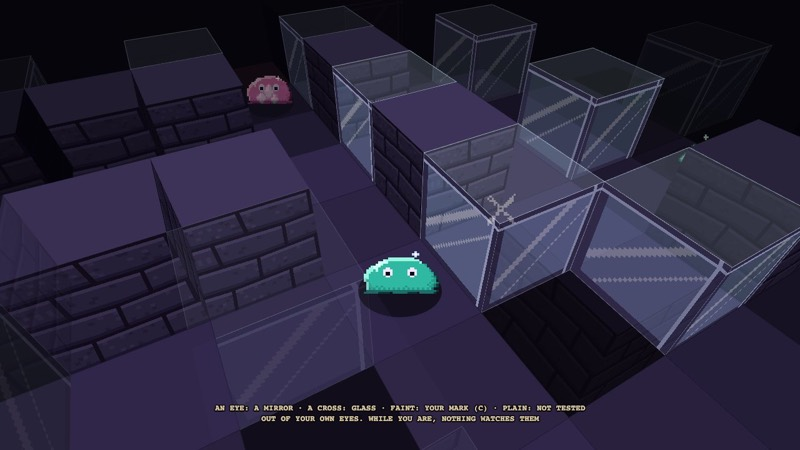
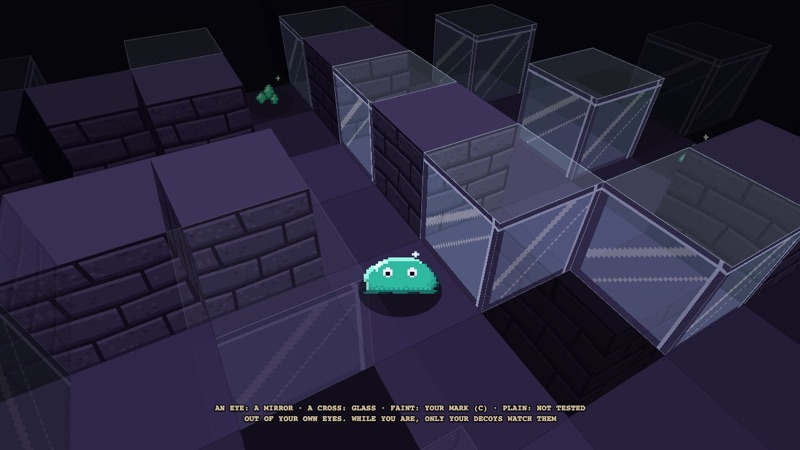
The Hall's guides say what the hall does: your decoys still hold them while you're blacked out or looking from above (and the hint over that view says so); a calm one won't be shooed; four pranks, one spinning you round; the dash goes up to three tiles; breaking glass riles the near ones half a mood

Changed region(s): [[0.3125, 0.9022, 0.6875, 0.9644], [0.3125, 0.1556, 0.375, 0.2489], [0.5938, 0.4356, 0.6562, 0.4978]]

diff --git a/guide/hall.html b/guide/hall.html
@@ -49,7 +49,7 @@ details[open] summary { margin-bottom: 12px; }
     <img src="hall/intro.jpg" alt="The first moment in the hall: a dark stone corridor, the title The Hall of Reflections, and a few lines on what to do. The shard lies on the floor ahead." width="800" height="450">
     <figcaption>The way in. Behind you is the broken mirror you came through. It's also the way out.</figcaption>
   </figure>
-  <p>You'll find the Hall on the Training Ground's <strong>Trials</strong> page. You see everything through your slime's eyes, one tile and one quarter turn at a time. The first time you go in, its own short guide opens by itself; <kbd>H</kbd> brings it back whenever you want, and the hall holds still while you read.</p>
+  <p>You'll find the Hall on the Training Ground's <strong>TRIAL</strong> page. You see everything through your slime's eyes, one tile and one quarter turn at a time. The first time you go in, its own short guide opens by itself; <kbd>H</kbd> brings it back whenever you want, and the hall holds still while you read.</p>
 
   <h2 id="goal">The goal</h2>
   <p>The hall is two rings of corridors around a <strong>gallery</strong>, a glass room in the middle with four panes standing free in it. Small closets open off the sides. Every one of its <strong>30 panes</strong> is either a <span class="gold">mirror</span> or <span class="gold">glass</span>, picked at random each run, and every pane is a window: you can see through it from both sides.</p>
@@ -131,10 +131,10 @@ details[open] summary { margin-bottom: 12px; }
     </svg></div>
     <figcaption>Chalked. The pink slime on the floor is a decoy lying in the hall: walk over it to pick it up.</figcaption>
   </figure>
-  <div class="note warn"><p><strong>Breaking glass is loud.</strong> Every sleeper within 7 tiles wakes. Every one already awake lunges two steps at you, whether you're watching it or not, and gets a whole mood worse.</p></div>
+  <div class="note warn"><p><strong>Breaking glass is loud.</strong> Every sleeper within 7 tiles wakes. Every one already awake lunges two steps at you, whether you're watching it or not, and gets a whole mood worse (half a mood more within 7 tiles).</p></div>
 
   <h2 id="them">Them</h2>
-  <p>There are four. They start <strong>asleep</strong>, looking a lot like you, eyes shut. One wakes if you come within <strong>2 tiles</strong> of it, or at a noise near it: a dash (6 tiles), a chalked pane (4 tiles), breaking glass (7 tiles). Every fragment you take also wakes the nearest one still asleep. Waking takes a moment (a second and a half before its first step), and you'll hear it: a giggle, from where it is.</p>
+  <p>There are four. They start <strong>asleep</strong>, looking a lot like you, eyes shut. One wakes if you come within <strong>2 tiles</strong> of it, or at a noise near it: a dash (6 tiles), a chalked pane (4 tiles), breaking glass (7 tiles). Every fragment you take also wakes the nearest one still asleep. Waking takes a moment (an extra second and a half before its first step), and you'll hear it: a giggle, from where it is.</p>
   <div class="note"><p><strong>They only move while nothing is looking at them.</strong> Your eyes, your raised shard and your decoys all count. Look away, even to turn a corner, and they come toward you, the shortest way, round each other.</p></div>
   <p>Every step one takes, it's in a new look, picked for how close it is. Three or more steps away, the look shows its <a href="#moods">mood</a>: calm, playful or hunting. Right behind a pane between you, it's usually up against the glass. Two steps away, it's in your face. One step away, you catch it frozen just before it got you. If you look away then, it reaches you.</p>
   <div class="grid">
@@ -158,7 +158,7 @@ details[open] summary { margin-bottom: 12px; }
   <ul>
     <li><strong>Staring.</strong> While you look straight at one, it gets worse three times as fast (calm to playful in 10 seconds, playful to hunting in 15).</li>
     <li><strong>A noise near it.</strong> A dash or a chalked pane nearby makes it half a mood worse.</li>
-    <li><strong>Breaking glass.</strong> Every one awake gets a whole mood worse, wherever it is.</li>
+    <li><strong>Breaking glass.</strong> Every one awake gets a whole mood worse, wherever it is, and half a mood more if it's within 7 tiles.</li>
     <li><strong>Fragments.</strong> Once you have one, every one awake is at least playful. With the way out whole, they're all hunting.</li>
   </ul>
   <p>Nothing calms one down except a <a href="#shoo">shoo</a> or a prank. Either sends it back to sleep far away, and it wakes calm again (or as riled as your fragments say).</p>
@@ -257,12 +257,12 @@ details[open] summary { margin-bottom: 12px; }
   <p>They can't hurt you. Your own fear can.</p>
   <h3>Dread: don't meet their eyes</h3>
   <p>Looking <strong>straight</strong> at one that's awake fills you with dread, faster the more of the screen it fills. The edges darken, the colour drains, cracks creep in, your heart pounds. Looking at one in your raised shard doesn't count: it's a reflection. Dread starts draining half a second after you look away.</p>
-  <p>The first time you see one in a new look, it makes you jump, and that's a burst of dread on top.</p>
+  <p>The first time you see one that's just come up close (two steps away or nearer), it makes you jump. If you saw it straight on, that's a burst of dread on top.</p>
   <div class="two">
     <figure><img src="hall/dread.jpg" alt="Staring at one: the screen gone grey and dark at the edges." width="800" height="450" loading="lazy"><figcaption>Dread building.</figcaption></figure>
     <figure><img src="hall/blackout.jpg" alt="A black screen with the words You black out. You can't bear it." width="800" height="450" loading="lazy"><figcaption>Full dread: you black out.</figcaption></figure>
   </div>
-  <p>When dread is full, you <strong>black out</strong> for a second. Nothing is watching them while you're out, so they move. You come round about half full of dread.</p>
+  <p>When dread is full, you <strong>black out</strong> for a second. Only your decoys still watch them while you're out, so the rest move. You come round about half full of dread.</p>
   <h3>Stress: what their pranks leave you with</h3>
   <p>A prank is a huge scare, then a giggle. It stays with you as <strong>stress</strong>, for good. Your dread counts toward stress too, while it lasts. When stress is full, you're <strong>scared to death</strong> and the run is over. </p>
   <p>They have four pranks, and never pull the same one on you twice in a row:</p>
@@ -347,7 +347,7 @@ details[open] summary { margin-bottom: 12px; }
   </figure>
 
   <h3>Looking from above</h3>
-  <p>Hold <kbd>Tab</kbd> to rise out of your own eyes: the view pulls back and up behind you, turned a little toward the middle of the hall. You see yourself, the stone and panes round you (with your chalk and marks), what's lying about, and your slimes, with the dark closing in a few tiles off. You never see them this way, except where a sentry pings. While you're out of your eyes, nothing is watching them.</p>
+  <p>Hold <kbd>Tab</kbd> to rise out of your own eyes: the view pulls back and up behind you, turned a little toward the middle of the hall. You see yourself, the stone and panes round you (with your chalk and marks), what's lying about, and your slimes, with the dark closing in a few tiles off. You never see them this way, except where a sentry pings. While you're out of your eyes, only your decoys watch them, and you can't move or use anything till you let go.</p>
   <figure>
     <div class="shot"><img src="hall/above.jpg" alt="The view from above and behind: your teal slime in a corridor between stone blocks and glass panes, a pink decoy further off, and a chalked cross on a pane; arrows point to each." width="800" height="450" loading="lazy">
     <svg class="ink" viewBox="0 0 640 360" aria-hidden="true">
@@ -382,23 +382,23 @@ details[open] summary { margin-bottom: 12px; }
     <li><strong>Shoo the playful ones.</strong> A calm one can't be shooed, but it's slow and easy to get away from. Once it turns playful, send it off before it starts hunting.</li>
     <li><strong>Leave sleepers alone.</strong> Don't walk within two tiles of one, and don't dash or chalk near one.</li>
     <li><strong>Plant a sentry by a sleeper</strong> you have to pass, so you'll know when it's up.</li>
-    <li><strong>Think before the third fragment.</strong> It wakes everything, all hunting. Know your way back to the mirror first, and grab the bonus fragments before it if you want them.</li>
+    <li><strong>Think before the third fragment.</strong> It wakes everything, all hunting. Know your way back to the mirror first. Whichever three fragments you find first make the way out, so the two bonus ones come after, with every one of them hunting.</li>
     <li><strong>Pace yourself after a prank.</strong> Two pranks in, a full dread kills you. Three in, even a jump can.</li>
   </ul>
 
   <h2 id="numbers">The numbers</h2>
   <div class="wrap"><table class="numbers">
     <tr><th>What</th><th>Value</th></tr>
-    <tr><td>Panes</td><td class="n">30, each 45% likely a mirror</td></tr>
+    <tr><td>Panes</td><td class="n">30, each 45% likely a mirror (always at least 8)</td></tr>
     <tr><td>Fragments</td><td class="n">5 in mirrors, 3 needed, +25 glorps each extra</td></tr>
     <tr><td>Them: a step, unwatched</td><td class="n">calm 0.9s, playful 0.6s, hunting 0.43s</td></tr>
     <tr><td>Them: each fragment taken</td><td class="n">0.03s quicker (never under 0.45s before mood)</td></tr>
     <tr><td>Them: can see you / lost you</td><td class="n">×0.8 / ×1.25 step time</td></tr>
     <tr><td>Them: first moves</td><td class="n">none in your first 5s</td></tr>
     <tr><td>Moods: calm to playful / playful to hunting</td><td class="n">30s / 45s awake (3× faster stared at)</td></tr>
-    <tr><td>Moods: a noise near / breaking glass</td><td class="n">+½ mood / +1 mood</td></tr>
+    <tr><td>Moods: a noise near / breaking glass</td><td class="n">+½ mood / +1 mood (+1½ within 7 tiles)</td></tr>
     <tr><td>Waking: too near / dash / chalk / glass</td><td class="n">2 / 6 / 4 / 7 tiles</td></tr>
-    <tr><td>Waking: coming to</td><td class="n">1.5s before the first step</td></tr>
+    <tr><td>Waking: coming to</td><td class="n">1.5s more before its first step</td></tr>
     <tr><td>Breaking glass: the awake lunge</td><td class="n">2 steps</td></tr>
     <tr><td>Sent off (a shoo or a prank)</td><td class="n">asleep 8+ tiles away for 15 to 25s</td></tr>
     <tr><td>Hearing them move</td><td class="n">up to 10 tiles</td></tr>
@@ -416,7 +416,7 @@ details[open] summary { margin-bottom: 12px; }
     <tr><td>Glorps</td><td class="n">11 piles of 3 to 6</td></tr>
     <tr><td>Its true face</td><td class="n">1 in 250 a step, 3+ steps away; 500 glorps</td></tr>
   </table></div>
-  <p class="foot">The step times are before the small random spread that keeps them out of step with each other (up to 15% either way).</p>
+  <p class="foot">The step times are before two things: ×0.8 when it can see you or ×1.25 when it has lost you, and a small spread, set by where each one stands, that keeps them out of step with each other (up to 15% either way).</p>
 </main>
 </body>
 </html>

diff --git a/MirrorTrial.js b/MirrorTrial.js
@@ -36,7 +36,7 @@
 // of them if it's in the way (not through stone or glass), loud. Found in the hall: decoy slimes (Q, you in pink: set one
 // down and it stares the way you face for a while; they take it for you, and anything in its line holds) and sentry
 // slimes (E sets one down: one of them moving within its reach, even a wall away, or one asleep by it waking, sets it off: it pings twice, each ping
-// showing you where they are for a moment, then it's spent). Your map (TAB, held up to your face: nothing watches them) is
+// showing you where they are for a moment, then it's spent). Your map (TAB, held up to your face: only your decoys watch them) is
 // the whole hall: its panes as you've chalked or marked them, your decoys and sentries, you; them only as a ping shows.
 // Drawn small and scaled up: a ray a column through the tile map, off mirrors and through glass, shaded to black with
 // distance and dithered to a few levels a colour; the shard's view the same, turned round and flipped, cut to its shape.
@@ -89,16 +89,16 @@ class MirrorTrial extends Phaser.Scene {
     // HOW THE HALL WORKS: the game's own guide (LevelSelectScene._guide), a picture from the hall a page (assets/mirror_guide).
     // By itself the first time you come in (mirror_guide_seen), and on H; the hall holds still while it's open
     static GUIDE = [
-        ['THE HALL OF REFLECTIONS', 'Five fragments of the way out are in mirrors, spread through the hall\'s 30 panes. Walk into a pane to chalk it: a mirror rings and gives up its fragment if it has one; glass shatters, and they all hear it. Three make the way out whole, and taking the third wakes every one of them for the run home. The other two are worth glorps. H shows this again.'],
+        ['THE HALL OF REFLECTIONS', 'Five fragments of the way out are in mirrors, spread through the hall\'s 30 panes. Walk into a pane to chalk it: a mirror rings and gives up its fragment if it has one; glass shatters, and they hear it. Three make the way out whole, and taking the third wakes every one of them for the run home. The other two are worth glorps. H shows this again.'],
         ['MIRROR OR GLASS?', 'Straight on, a mirror here looks just like glass: you see through both. Only a reflection of a reflection shows. Turn your back on a pane and hold up your shard (SPACE): a mirror shows you, holding the shard; glass shows what\'s beyond it. Your decoys and sentries are made of reflection, so a mirror shows them even straight on.'],
         ['CHALK AND MARKS', 'Chalk is the real test: an eye for a mirror, a cross for glass. C puts your own mark on a pane (glass, then mirror, then rubbed out) so you don\'t test it twice; with the shard up, it marks the pane behind you. Shattered glass wakes every sleeper near it, and the awake ones lunge two steps at you.'],
         ['THEM', 'They only move while nothing is watching them: your eyes, your raised shard, your decoys. Look away and they come. Asleep, one wakes if you come within two tiles of it, or at a noise: a dash, a chalked pane, breaking glass. Each fragment you take wakes another. Every step they take, they look different.'],
         ['THEIR MOODS', 'Every one wakes calm and slow (reading, juggling, whistling), and the longer it\'s awake the worse it gets: playful, then hunting and quick (staring, up the walls). You\'ll hear it turn. Staring at one, a noise near it and breaking glass rile it faster; a fragment taken lifts them all. Only a shoo or a prank calms one down. One that can see you comes quicker: lose it round a corner.'],
-        ['DON\'T MEET THEIR EYES', 'Looking straight at one that\'s awake fills you with dread. When it\'s full you black out for a second, and nothing is watching them. In your shard they can\'t do that to you. Hold one in your raised shard for two seconds and it slinks off to sleep it off somewhere far away, for a while.'],
-        ['THEY CAN\'T HURT YOU', 'One that reaches you pranks you, and it stays with you as stress. Your dread counts toward it too, while it lasts. Two pranks in, a full dread scares you to death. Three in, one moment\'s look does. A fourth prank always does.'],
+        ['DON\'T MEET THEIR EYES', 'Looking straight at one that\'s awake fills you with dread. When it\'s full you black out for a second, and only your decoys still watch them. In your shard they can\'t do that to you. Hold one that isn\'t calm in your raised shard for two seconds and it slinks off to sleep it off somewhere far away, for a while.'],
+        ['THEY CAN\'T HURT YOU', 'One that reaches you pranks you, and it stays with you as stress. They have four pranks, never the same one twice running; one spins you round to face the other way. Your dread counts toward your stress too, while it lasts. Two pranks in, a full dread scares you to death. Three in, one moment\'s look does. A fourth prank always does.'],
         ['YOUR SHARD', 'Held up, your arm tires: it gives out after four seconds, and rests slowly once it\'s down. The goo arm beside the shard shows what\'s left. Down, the shard fogs up now and then, and a fogged shard only holds the ones close behind you. Hold F to wipe it, but your arm can\'t rest while you do.'],
-        ['WHAT YOU\'LL FIND', 'Flasks of your goo: SHIFT dashes you three tiles on, past one of them, loudly. Decoys (Q): they take it for you, and whatever it stares at holds. Sentries (E): one of them moving near it, even a wall away, or waking beside it, sets it off, and two pings show you where they are. Glorps go into your purse.'],
-        ['LOOKING FROM ABOVE', 'Hold TAB to step out of your own eyes, up behind yourself: you, the panes round you with your chalk and marks, your slimes. You never see them this way, except where a sentry pings, and while you\'re out of your eyes nothing watches them. W S step, A D turn, ESC leaves the hall.'],
+        ['WHAT YOU\'LL FIND', 'Flasks of your goo: SHIFT dashes you up to three tiles on, past one of them, loudly. Decoys (Q): they take it for you, and whatever it stares at holds. Sentries (E): one of them moving near it, even a wall away, or waking beside it, sets it off, and two pings show you where they are. Glorps go into your purse.'],
+        ['LOOKING FROM ABOVE', 'Hold TAB to step out of your own eyes, up behind yourself: you, the panes round you with your chalk and marks, your slimes. You never see them this way, except where a sentry pings. While you\'re up there only your decoys watch them, and you can\'t move till you let go. W S step, A D turn, ESC leaves the hall.'],
     ];
     // their looks (mt_twin, a strip: scratchpad art states.mjs --game): asleep; seen from afar, by their mood: calm (reading in
     // glasses, juggling your gems, whistling, counting glorps, a baby with a pacifier, caught snacking on a burger, lounging...), playful (waving, peekaboo, copying you...), hunting
@@ -207,7 +207,7 @@ class MirrorTrial extends Phaser.Scene {
         this.mapDim = this.add.rectangle(0, 0, W, H, 0x05030a).setOrigin(0).setAlpha(0).setDepth(6.4);
         this.overCv = canvas('mt_over', W, H);   // the hall from above, drawn each frame it's out
         this.mapImg = this.add.image(W / 2, H / 2, 'mt_over').setDepth(6.5).setVisible(false);
-        this.mapHint = this.add.text(W / 2, H - 58, 'AN EYE: A MIRROR · A CROSS: GLASS · FAINT: YOUR MARK (C) · PLAIN: NOT TESTED\nOUT OF YOUR OWN EYES. WHILE YOU ARE, NOTHING WATCHES THEM', { fontSize: '13px', fontFamily: 'monospace', fontStyle: 'bold', color: '#d6c49a', stroke: '#05030a', strokeThickness: 4, align: 'center' }).setOrigin(0.5).setDepth(6.6).setAlpha(0);
+        this.mapHint = this.add.text(W / 2, H - 58, 'AN EYE: A MIRROR · A CROSS: GLASS · FAINT: YOUR MARK (C) · PLAIN: NOT TESTED\nOUT OF YOUR OWN EYES. WHILE YOU ARE, ONLY YOUR DECOYS WATCH THEM', { fontSize: '13px', fontFamily: 'monospace', fontStyle: 'bold', color: '#d6c49a', stroke: '#05030a', strokeThickness: 4, align: 'center' }).setOrigin(0.5).setDepth(6.6).setAlpha(0);
         this.mapMode = null;
         this.input.keyboard.addCapture(Phaser.Input.Keyboard.KeyCodes.TAB);
         this.glorpTxt = this.add.text(W - 24, 20, '', { fontSize: '20px', fontFamily: UIKit.FONT.title, fontStyle: 'bold', color: '#5dffb8', stroke: '#05030a', strokeThickness: 5 }).setOrigin(1, 0).setDepth(6);
@@ -400,7 +400,7 @@ class MirrorTrial extends Phaser.Scene {
     }
     // Your dread: looking straight at one that's awake (not in a reflection) builds it, faster the more of it fills your view;
     // it ebbs when you stop. One that's just turned horrible stings the first time it's seen, anywhere. Full: you black out for
-    // a moment (and nothing watches them). Your stress: what their pranks left you with, for good, and your dread on top; full,
+    // a moment (and only your decoys watch them). Your stress: what their pranks left you with, for good, and your dread on top; full,
     // you're scared to death (two pranks in, a full dread does it; three, a moment's). The look of it: the edges darkening, the
     // colour going (your dread); cracks creeping in (your stress: as far as the pranks took them, they stay); and once they've
     // got you, your heart going all the time and the dark pulsing in, like you're about to faint, worse with every prank.
